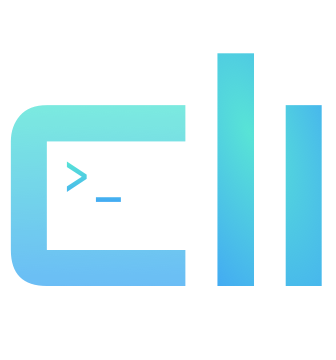
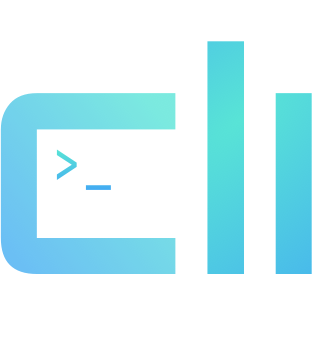
start docs

diff --git a/styles/index.css b/styles/index.css
@@ -20,8 +20,10 @@ body,html{
 body{
   background-color: #eee;
   color:rgba(0,0,0,0.5);
-  font:300 18px/27px 'Source Sans Pro', 'Helvetica Neue', Arial;
+  font:300 16px/27px 'Source Sans Pro', 'Helvetica Neue', Arial;
   padding: 30px;
+  margin:0 auto;
+  max-width: 1044px;
 }
 
 h1,h2,h3,h4,h5,h6{
@@ -73,7 +75,6 @@ main{
   margin: 0 auto;
   overflow: auto;
   padding: 0 0 60px;
-  max-width: 1044px;
   width: 100%;
 }
 main > header {
@@ -148,7 +149,8 @@ section h4 i {
   text-transform: uppercase;
   border-bottom: 2px solid #fff;
 }
-.main-nav a:hover{
+.main-nav a:hover,
+.main-nav a.active{
   text-decoration: none;
   border-bottom: 2px solid #28b7d3;
 }
@@ -240,4 +242,62 @@ section h4 i {
 }
 .tri-describe h2{
   /*color:#e96900;*/
+}
+
+/** DOCS ***************************/
+
+html.docs {
+  height: 100%;
+}
+
+.docs body {
+  height: 100%;
+  padding : 0;
+  max-width: 100%;
+}
+
+.docs main {
+  height: 100%;
+  padding: 0;
+}
+
+.docs .content{
+  padding: 30px;
+  width: calc(100% - 300px);
+}
+
+.docs aside{
+  border-left: 1px solid #eee;
+  float: right;
+  height: 100%;
+  padding: 30px;
+  width: 300px;
+}
+
+.docs .logo {
+  vertical-align: top;
+  width: 40px;
+}
+.docs .content .logo-anchor {
+  display:inline;
+}
+.docs .logo-anchor + nav {
+  display: inline-block;
+  padding: 3px 0 0 30px;
+  vertical-align: top;
+}
+
+.docs .logo-anchor + nav a{
+  color: #7f8c8d;
+  line-height: 30px;
+  margin-right: 20px;
+  font-size: 13px;
+  font-weight: 400;
+  text-transform: uppercase;
+  border-bottom: 2px solid #fff;
+}
+.docs .logo-anchor + nav a:hover,
+.docs .logo-anchor + nav a.active{
+  text-decoration: none;
+  border-bottom: 2px solid #28b7d3;
 }

diff --git a/docs.html b/docs.html
@@ -1,1 +1,32 @@
-docs!
+<!DOCTYPE html>
+<html lang=en class="docs">
+  <meta charset="utf-8">
+  <meta http-equiv="X-UA-Compatible" content="IE=edge">
+
+  <title>Documentation - cli.js - A library to craft composable, modular, and testable command line applications with Node.js</title>
+
+  <link href='https://fonts.googleapis.com/css?family=Source+Sans+Pro:300,400,600' rel='stylesheet' type='text/css'>
+  <link href='https://fonts.googleapis.com/css?family=Source+Code+Pro' rel='stylesheet' type='text/css'>
+
+  <link rel="stylesheet" href="/styles/index.css">
+  <link rel="stylesheet" href="/styles/ionicons.min.css">
+
+  <main role="main">
+    <aside>
+      asdf
+    </aside>
+    <div class="content">
+      <a href="/" class="logo-anchor"><img src="/images/logo_7.svg" class="logo" alt="cli.js" /></a>
+      <nav>
+        <a href="/get-started">Get Started</a>
+        <a href="/docs" class="active">Docs</a>
+        <a href="/examples">Examples</a>
+        <a href="/plugins">Plugins</a>
+        <a href="https://github.com/clijs" target="_blank">Github</a>
+      </nav>
+    </div>
+  </main>
+
+
+  <script src="https://cdn.rawgit.com/google/code-prettify/master/loader/run_prettify.js"></script>
+</html>

diff --git a/index.html b/index.html
@@ -20,7 +20,7 @@
         <a href="/plugins">Plugins</a>
         <a href="https://github.com/clijs" target="_blank">Github</a>
       </nav>
-      <a href="/"><img class="logo" src="/images/logo_5.svg" alt="Cli.js - Create composable, modular command line applications" /></a>
+      <a href="/"><img class="logo" src="/images/logo_7.svg" alt="Cli.js - Create composable, modular command line applications" /></a>
       <br>
       <br>
       <h3>A library to craft composable, modular, and testable command line applications</h3>
